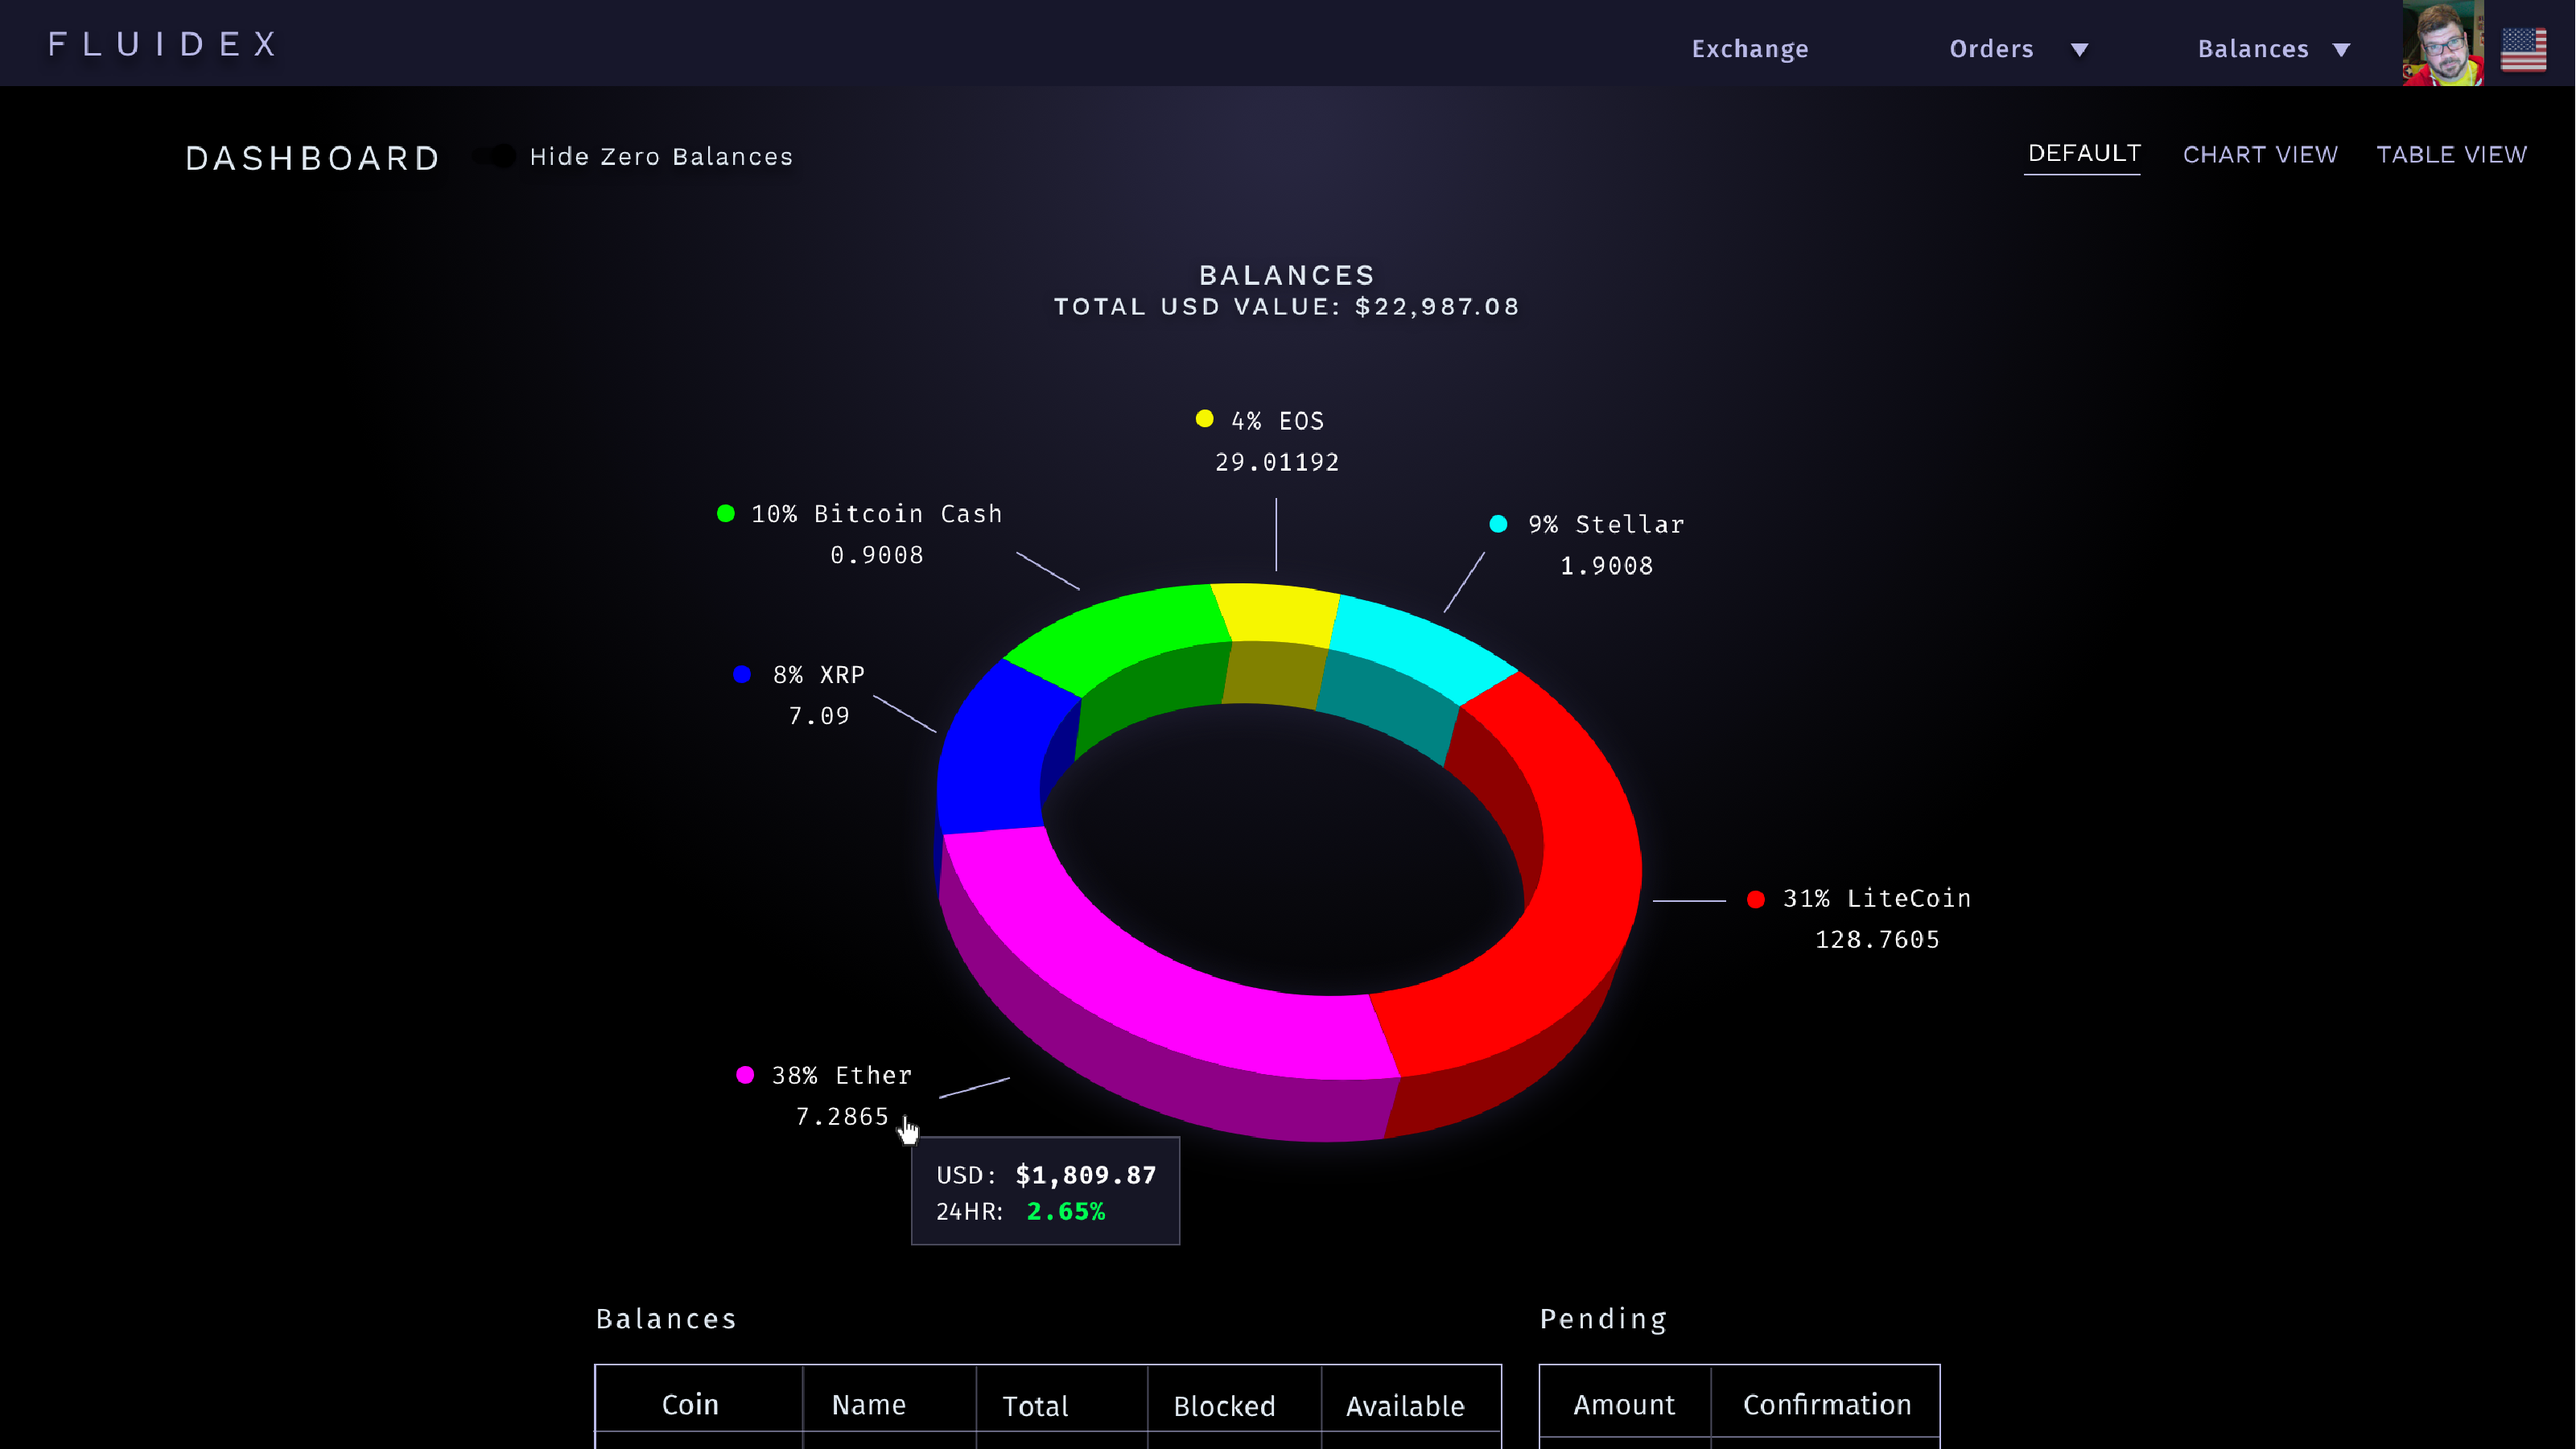
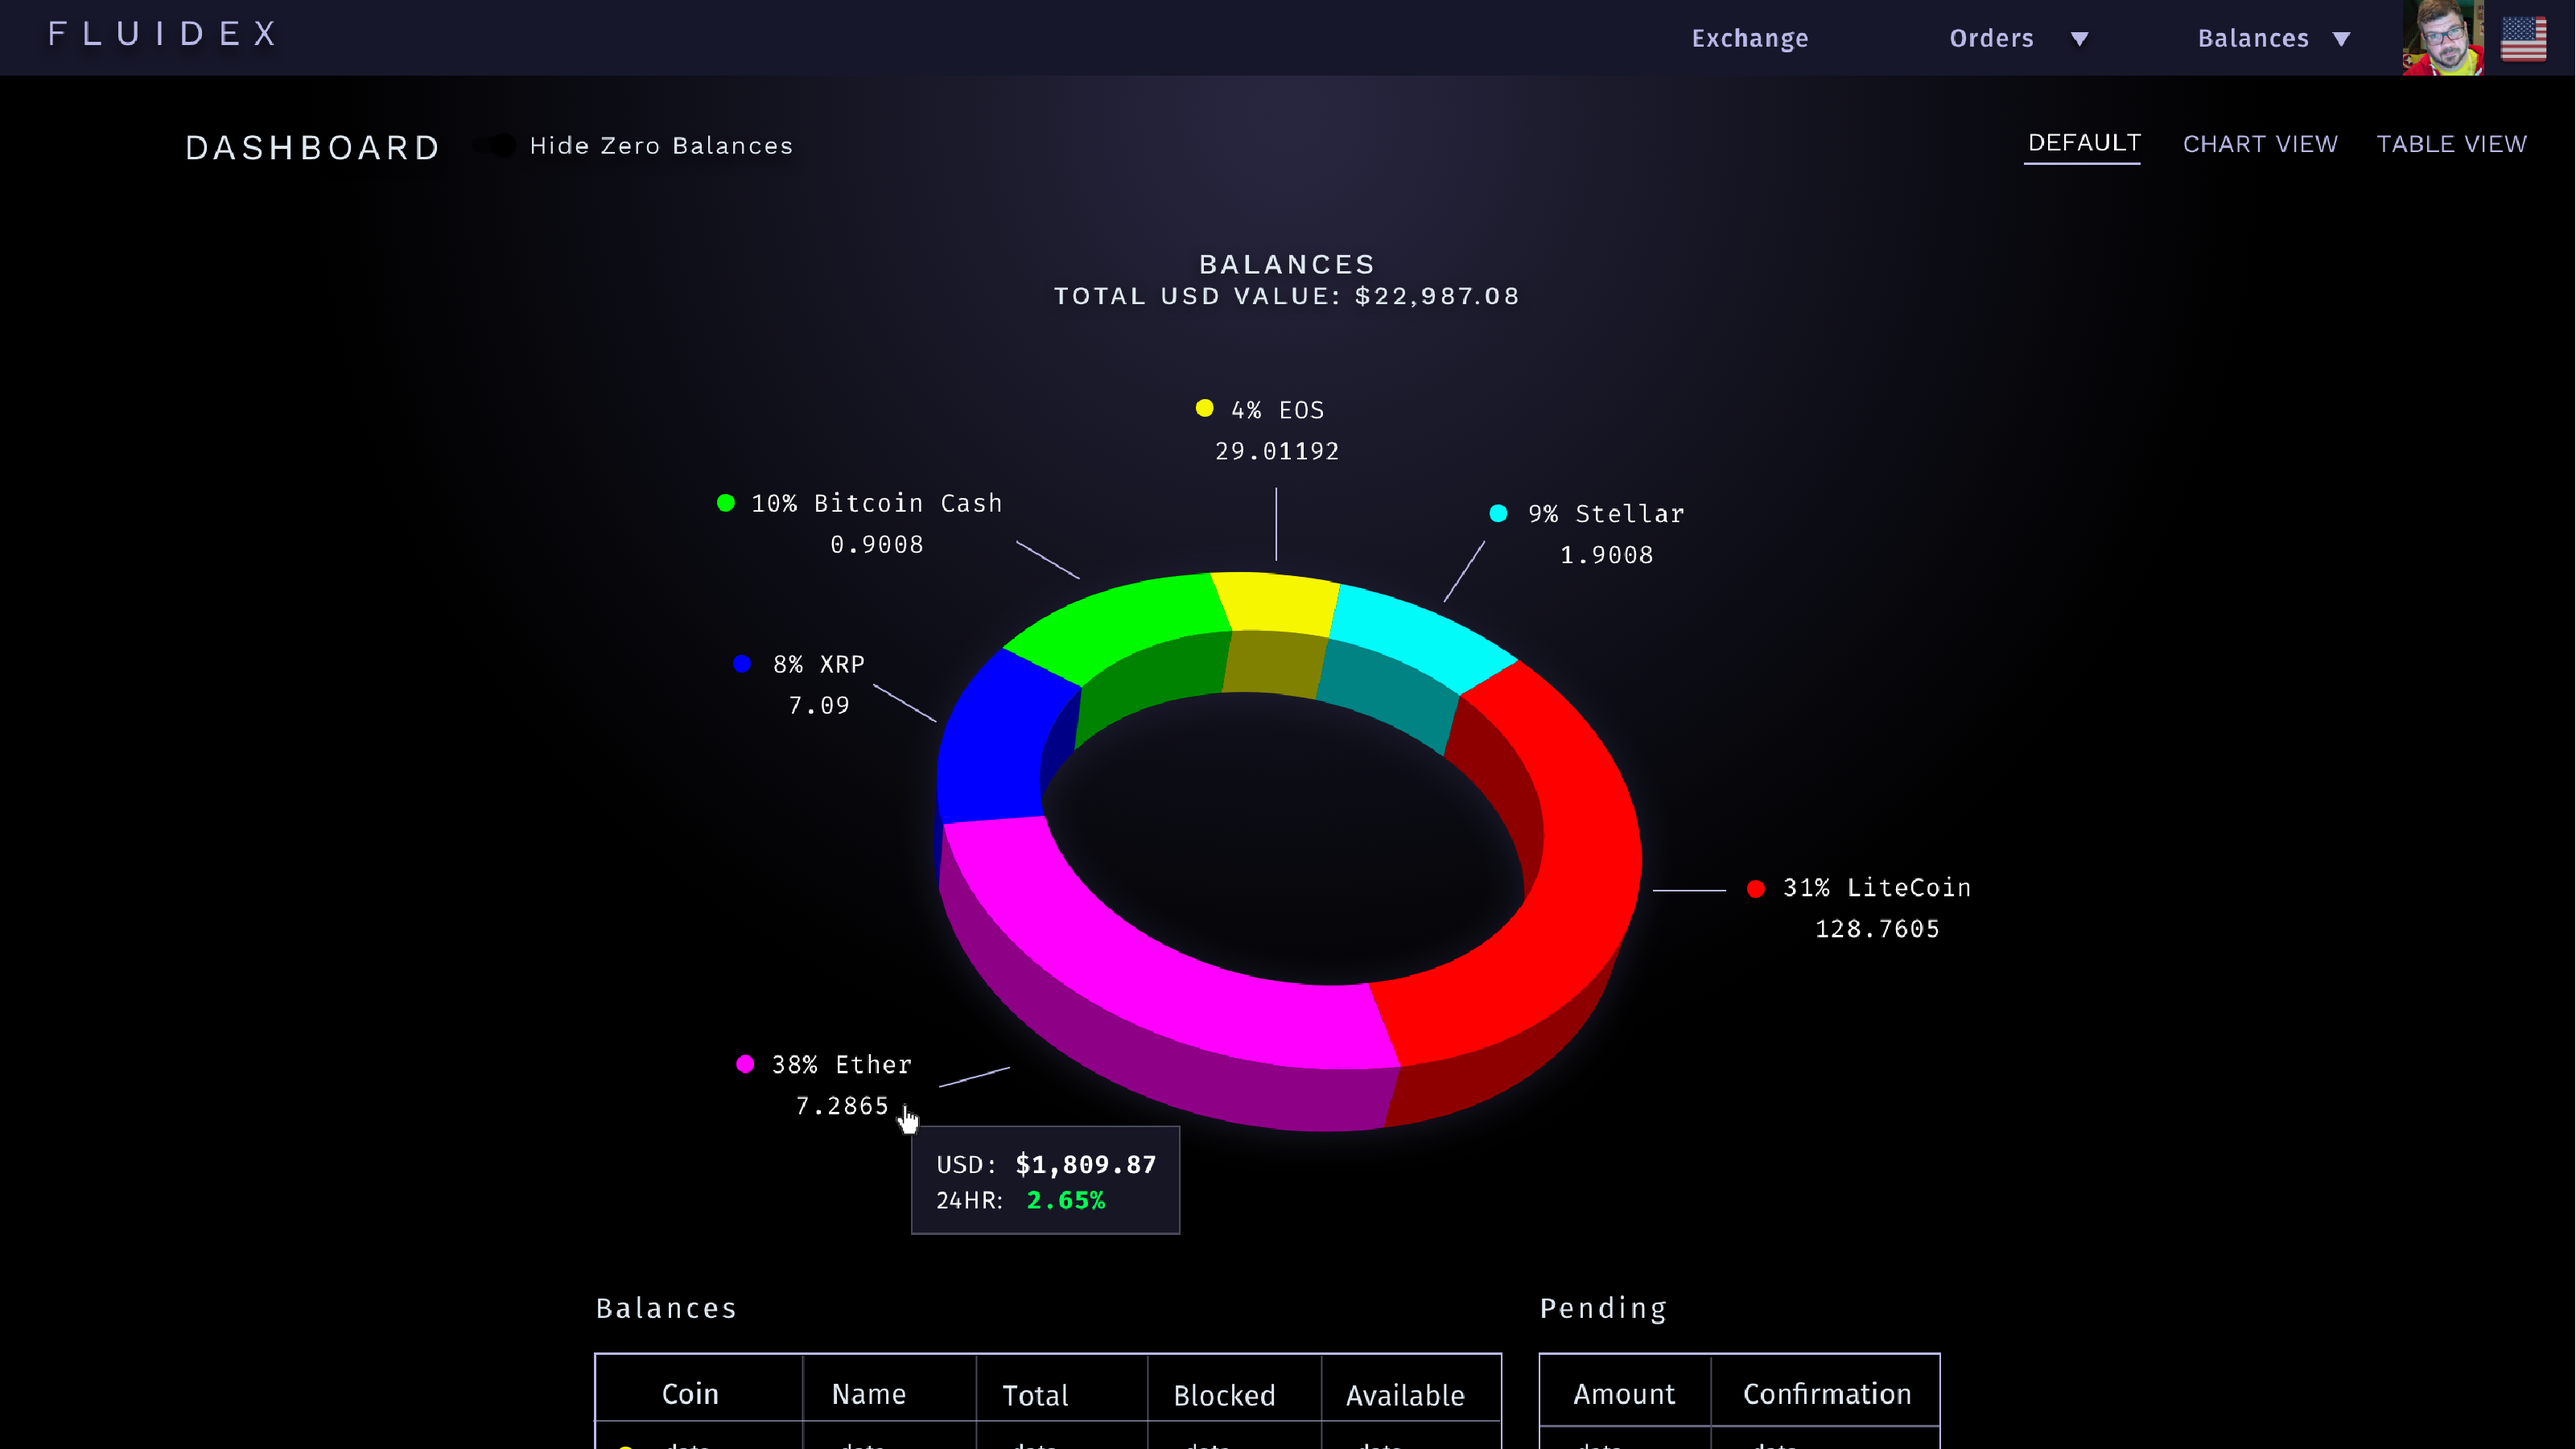
updates
more

diff --git a/index.html b/index.html
@@ -173,7 +173,25 @@
             </button>
           </article>
           <article class="card reveal generated-card" data-category="all" data-generated="true">
-            <a class="work-link" data-project-id="generated_large-web-portfolio-greif3200x1800-1772332871783" href="assets/vscimage/generated/large-web-portfolio-greif3200x1800-large-1900x1600.webp" data-lightbox-src="assets/vscimage/generated/large-web-portfolio-greif3200x1800-large-1900x1600.webp" data-fullscreen-src="assets/vscimage/generated/large-web-portfolio-greif3200x1800-large-1900x1600.webp" data-lightbox-title="Grief Plus logo" data-lightbox-description="Branding for client portal.">
+            <a class="work-link" data-project-id="generated_large-web-portfolio-fluidx3200x1800-1772332870827" href="assets/vscimage/generated/large-web-portfolio-fluidx3200x1800-large-1900x1600.webp" data-lightbox-src="assets/vscimage/generated/large-web-portfolio-fluidx3200x1800-large-1900x1600.webp" data-fullscreen-src="assets/vscimage/generated/large-web-portfolio-fluidx3200x1800-fullscreen-3200x1800.webp" data-lightbox-title="Product Design for Crypto Exchange" data-lightbox-description="Generated in VSCimage.">
+              <img class="card-image" src="assets/vscimage/generated/large-web-portfolio-fluidx3200x1800-thumb-760x570.webp" alt="Preview image for Product Design for Crypto Exchange" loading="lazy" />
+              <h3>Product Design for Crypto Exchange</h3>
+            </a>
+            <button class="card-fullscreen" type="button" aria-label="View generated image in fullscreen">
+              <span aria-hidden="true">⤢</span>
+            </button>
+          </article>
+          <article class="card reveal generated-card" data-category="all" data-generated="true">
+            <a class="work-link" data-project-id="generated_large-web-portfolio-fluidx-wire-3200x1800-1772332870503" href="assets/vscimage/generated/large-web-portfolio-fluidx-wire-3200x1800-large-1900x1600.webp" data-lightbox-src="assets/vscimage/generated/large-web-portfolio-fluidx-wire-3200x1800-large-1900x1600.webp" data-fullscreen-src="assets/vscimage/generated/large-web-portfolio-fluidx-wire-3200x1800-fullscreen-3200x1800.webp" data-lightbox-title="Wireframe and User Feedback Plan" data-lightbox-description="Generated in VSCimage.">
+              <img class="card-image" src="assets/vscimage/generated/large-web-portfolio-fluidx-wire-3200x1800-thumb-760x570.webp" alt="Preview image for Wireframe and User Feedback Plan" loading="lazy" />
+              <h3>Wireframe and User Feedback Plan</h3>
+            </a>
+            <button class="card-fullscreen" type="button" aria-label="View generated image in fullscreen">
+              <span aria-hidden="true">⤢</span>
+            </button>
+          </article>
+          <article class="card reveal generated-card" data-category="all" data-generated="true">
+            <a class="work-link" data-project-id="generated_large-web-portfolio-greif3200x1800-1772332871783" href="assets/vscimage/generated/large-web-portfolio-greif3200x1800-large-1900x1600.webp" data-lightbox-src="assets/vscimage/generated/large-web-portfolio-greif3200x1800-large-1900x1600.webp" data-fullscreen-src="assets/vscimage/generated/large-web-portfolio-greif3200x1800-fullscreen-3200x1800.webp" data-lightbox-title="Grief Plus logo" data-lightbox-description="Branding for client portal.">
               <img class="card-image" src="assets/vscimage/generated/large-web-portfolio-greif3200x1800-thumb-760x570.webp" alt="Preview image for Grief Plus logo" loading="lazy" />
               <h3>Grief Plus logo</h3>
               <p>Branding for client portal.</p>
@@ -183,36 +201,18 @@
             </button>
           </article>
           <article class="card reveal generated-card" data-category="all" data-generated="true">
-            <a class="work-link" data-project-id="generated_large-web-portfolio-greif-1772332871523" href="assets/vscimage/generated/large-web-portfolio-greif-large-1900x1600.webp" data-lightbox-src="assets/vscimage/generated/large-web-portfolio-greif-large-1900x1600.webp" data-fullscreen-src="assets/vscimage/generated/large-web-portfolio-greif-large-1900x1600.webp" data-lightbox-title="large-web-portfolio-greif" data-lightbox-description="Generated in VSCimage.">
-              <img class="card-image" src="assets/vscimage/generated/large-web-portfolio-greif-thumb-760x570.webp" alt="Preview image for large-web-portfolio-greif" loading="lazy" />
-              <h3>large-web-portfolio-greif</h3>
+            <a class="work-link" data-project-id="generated_large-web-portfolio-greif-1772332871523" href="assets/vscimage/generated/large-web-portfolio-greif-large-1900x1600.webp" data-lightbox-src="assets/vscimage/generated/large-web-portfolio-greif-large-1900x1600.webp" data-fullscreen-src="assets/vscimage/generated/large-web-portfolio-greif-large-1900x1600.webp" data-lightbox-title="Greif Catalog Cover Design 2025" data-lightbox-description="Generated in VSCimage.">
+              <img class="card-image" src="assets/vscimage/generated/large-web-portfolio-greif-thumb-760x570.webp" alt="Preview image for Greif Catalog Cover Design 2025" loading="lazy" />
+              <h3>Greif Catalog Cover Design 2025</h3>
             </a>
             <button class="card-fullscreen" type="button" aria-label="View generated image in fullscreen">
               <span aria-hidden="true">⤢</span>
             </button>
           </article>
           <article class="card reveal generated-card" data-category="all" data-generated="true">
-            <a class="work-link" data-project-id="generated_large-web-portfolio-gore3200x1800-1772332871171" href="assets/vscimage/generated/large-web-portfolio-gore3200x1800-large-1900x1600.webp" data-lightbox-src="assets/vscimage/generated/large-web-portfolio-gore3200x1800-large-1900x1600.webp" data-fullscreen-src="assets/vscimage/generated/large-web-portfolio-gore3200x1800-large-1900x1600.webp" data-lightbox-title="large-web-portfolio-gore3200x1800" data-lightbox-description="Generated in VSCimage.">
-              <img class="card-image" src="assets/vscimage/generated/large-web-portfolio-gore3200x1800-thumb-760x570.webp" alt="Preview image for large-web-portfolio-gore3200x1800" loading="lazy" />
-              <h3>large-web-portfolio-gore3200x1800</h3>
-            </a>
-            <button class="card-fullscreen" type="button" aria-label="View generated image in fullscreen">
-              <span aria-hidden="true">⤢</span>
-            </button>
-          </article>
-          <article class="card reveal generated-card" data-category="all" data-generated="true">
-            <a class="work-link" data-project-id="generated_large-web-portfolio-fluidx3200x1800-1772332870827" href="assets/vscimage/generated/large-web-portfolio-fluidx3200x1800-large-1900x1600.webp" data-lightbox-src="assets/vscimage/generated/large-web-portfolio-fluidx3200x1800-large-1900x1600.webp" data-fullscreen-src="assets/vscimage/generated/large-web-portfolio-fluidx3200x1800-large-1900x1600.webp" data-lightbox-title="large-web-portfolio-fluidx3200x1800" data-lightbox-description="Generated in VSCimage.">
-              <img class="card-image" src="assets/vscimage/generated/large-web-portfolio-fluidx3200x1800-thumb-760x570.webp" alt="Preview image for large-web-portfolio-fluidx3200x1800" loading="lazy" />
-              <h3>large-web-portfolio-fluidx3200x1800</h3>
-            </a>
-            <button class="card-fullscreen" type="button" aria-label="View generated image in fullscreen">
-              <span aria-hidden="true">⤢</span>
-            </button>
-          </article>
-          <article class="card reveal generated-card" data-category="all" data-generated="true">
-            <a class="work-link" data-project-id="generated_large-web-portfolio-fluidx-wire-3200x1800-1772332870503" href="assets/vscimage/generated/large-web-portfolio-fluidx-wire-3200x1800-large-1900x1600.webp" data-lightbox-src="assets/vscimage/generated/large-web-portfolio-fluidx-wire-3200x1800-large-1900x1600.webp" data-fullscreen-src="assets/vscimage/generated/large-web-portfolio-fluidx-wire-3200x1800-large-1900x1600.webp" data-lightbox-title="large-web-portfolio-fluidx-wire-3200x1800" data-lightbox-description="Generated in VSCimage.">
-              <img class="card-image" src="assets/vscimage/generated/large-web-portfolio-fluidx-wire-3200x1800-thumb-760x570.webp" alt="Preview image for large-web-portfolio-fluidx-wire-3200x1800" loading="lazy" />
-              <h3>large-web-portfolio-fluidx-wire-3200x1800</h3>
+            <a class="work-link" data-project-id="generated_large-web-portfolio-gore3200x1800-1772332871171" href="assets/vscimage/generated/large-web-portfolio-gore3200x1800-large-1900x1600.webp" data-lightbox-src="assets/vscimage/generated/large-web-portfolio-gore3200x1800-large-1900x1600.webp" data-fullscreen-src="assets/vscimage/generated/large-web-portfolio-gore3200x1800-fullscreen-3200x1800.webp" data-lightbox-title="3D Illustration for Wiring Product" data-lightbox-description="Generated in VSCimage.">
+              <img class="card-image" src="assets/vscimage/generated/large-web-portfolio-gore3200x1800-thumb-760x570.webp" alt="Preview image for 3D Illustration for Wiring Product" loading="lazy" />
+              <h3>3D Illustration for Wiring Product</h3>
             </a>
             <button class="card-fullscreen" type="button" aria-label="View generated image in fullscreen">
               <span aria-hidden="true">⤢</span>

diff --git a/styles.css b/styles.css
@@ -22,7 +22,9 @@
   --accent: #3e2723;
   --accent-2: #6d8f62;
   --accent-3: #b7d8a6;
-  --radius: 20px;
+  --radius: 22px;
+  --radius-soft: 16px;
+  --corner-curve-soft: superellipse(0.65);
   --shadow: 0 18px 44px rgba(62, 39, 35, 0.16);
   --bg-wash-a: #edf9df;
   --bg-wash-b: #c8e6b4;
@@ -268,6 +270,28 @@ html {
   font-family: "Pinot Grigio Modern";
   src: local("Pinot Grigio Modern"), local("PinotGrigioModern");
   font-display: swap;
+}
+
+@supports (corner-shape: superellipse(0.65)) {
+  .card,
+  .experience-link-shell,
+  .contact-shell,
+  .form-embed-slot,
+  .consent-banner,
+  input,
+  select,
+  textarea,
+  body.nav-ready .site-header .nav,
+  body.nav-ready .site-header .nav a,
+  .work-link:focus-visible,
+  .lightbox-close:focus-visible,
+  .lightbox-fullscreen:focus-visible,
+  .lightbox-nav:focus-visible,
+  .nav-toggle:focus-visible,
+  .nav a:focus-visible,
+  .brand:focus-visible {
+    corner-shape: var(--corner-curve-soft);
+  }
 }
 
 html {
@@ -635,16 +659,19 @@ h2 {
 .work-link:focus-visible {
   outline: 3px solid var(--focus-ring);
   outline-offset: 4px;
-  border-radius: 12px;
+  border-radius: 14px;
 }
 
 .card-image {
   width: 100%;
   aspect-ratio: 4 / 3;
-  border-radius: 14px;
+  border-radius: var(--radius-soft);
   border: 1px solid var(--line);
   object-fit: cover;
   display: block;
+  backface-visibility: hidden;
+  transform: translateZ(0);
+  -webkit-mask-image: -webkit-radial-gradient(white, black);
 }
 
 .card.is-featured .card-image,
@@ -797,7 +824,7 @@ label {
 input,
 select,
 textarea {
-  border-radius: 12px;
+  border-radius: 14px;
   border: 1px solid var(--line);
   padding: calc(12px * var(--control-scale));
   font: inherit;
@@ -1066,9 +1093,12 @@ textarea:focus {
   width: 100%;
   height: auto;
   max-height: 82vh;
-  border-radius: 14px;
+  border-radius: var(--radius-soft);
   border: 1px solid var(--lightbox-image-border);
   background: var(--lightbox-image-bg);
+  backface-visibility: hidden;
+  transform: translateZ(0);
+  -webkit-mask-image: -webkit-radial-gradient(white, black);
 }
 
 .lightbox:fullscreen,
@@ -1154,7 +1184,7 @@ textarea:focus {
 .brand:focus-visible {
   outline: 3px solid var(--focus-ring);
   outline-offset: 2px;
-  border-radius: 12px;
+  border-radius: 14px;
 }
 
 .reveal {
@@ -1241,7 +1271,7 @@ textarea:focus {
     gap: 4px;
     padding: 10px;
     border: 1px solid var(--line);
-    border-radius: 18px;
+    border-radius: 20px;
     background: var(--paper);
     box-shadow: var(--shadow);
     backdrop-filter: blur(12px);
@@ -1254,7 +1284,7 @@ textarea:focus {
 
   body.nav-ready .site-header .nav a {
     padding: 12px 14px;
-    border-radius: 12px;
+    border-radius: 14px;
   }
 
   body.nav-ready .site-header .nav a:hover {
